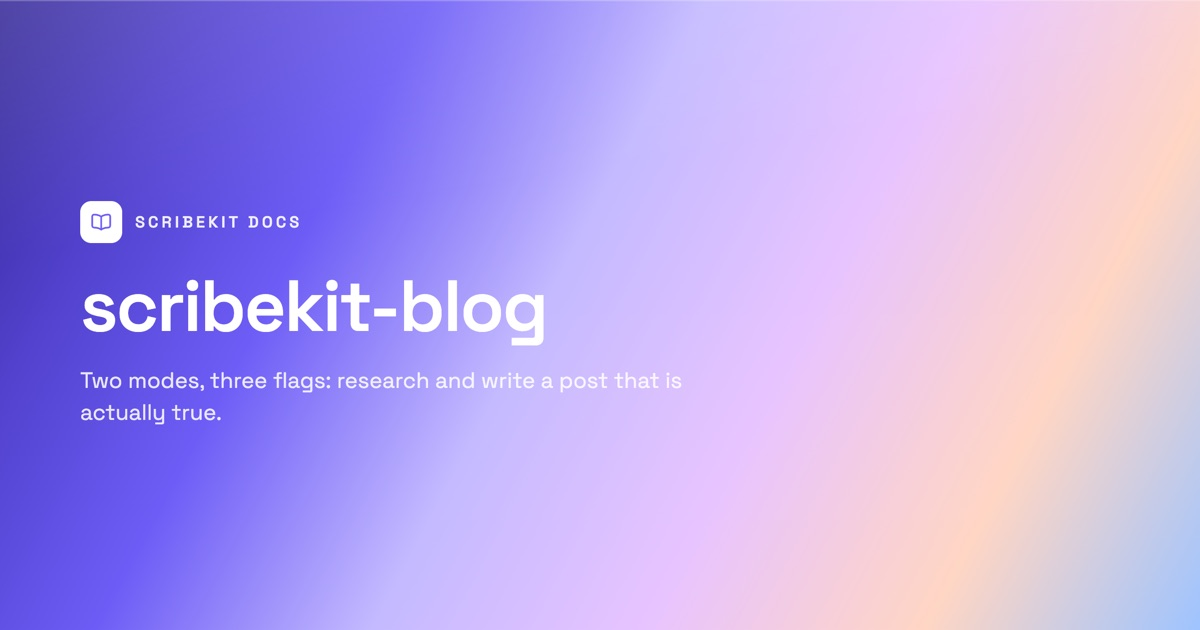
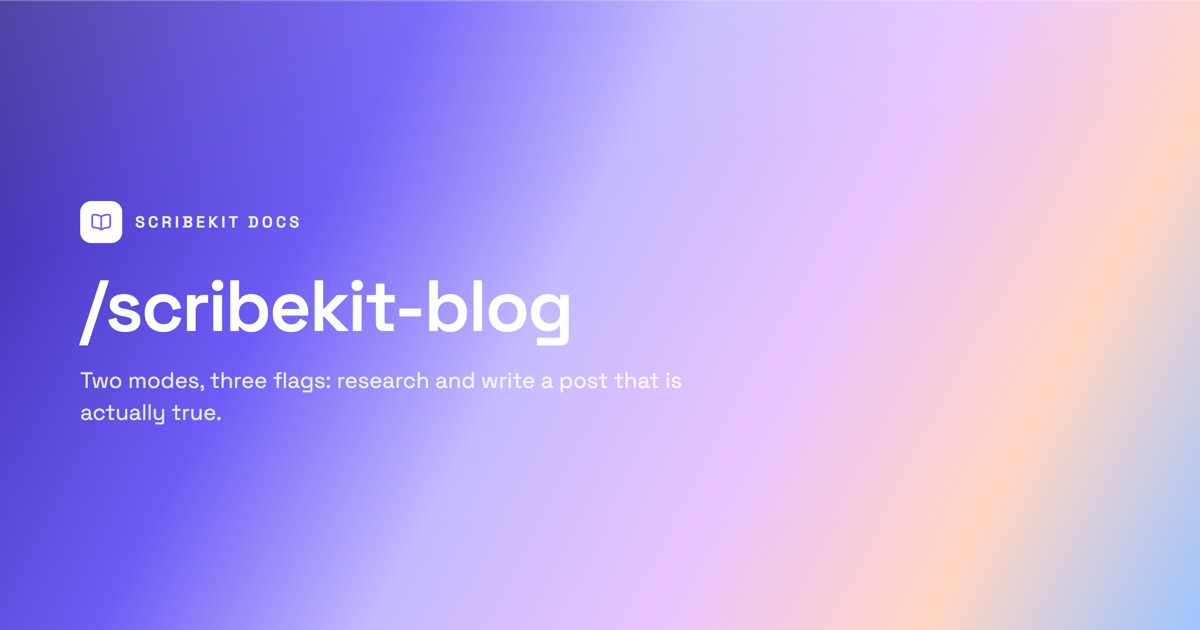
docs: prefix skill page names with /
Skill reference pages are now titled /scribekit-blog, /scribekit-docs,
/scribekit-docs-github-pages and /scribekit-hero, matching how the skills
are invoked. Heroes re-rendered from the updated params.

Changed region(s): [[0.0617, 0.4222, 0.4933, 0.573]]

diff --git a/docs/content/scribekit-docs-github-pages/hero.js b/docs/content/scribekit-docs-github-pages/hero.js
@@ -2,6 +2,6 @@
 // `regenerate-docs-heroes`. Single-language docs, so a plain params object (no locale function).
 export default {
     gradient: "horizon-glow",
-    title: "scribekit-docs-github-pages",
+    title: "/scribekit-docs-github-pages",
     subtitle: "Eight steps from a docs site to a static export live on GitHub Pages.",
 };

diff --git a/docs/content/scribekit-blog/hero.js b/docs/content/scribekit-blog/hero.js
@@ -2,6 +2,6 @@
 // `regenerate-docs-heroes`. Single-language docs, so a plain params object (no locale function).
 export default {
     gradient: "diagonal-ribbon",
-    title: "scribekit-blog",
+    title: "/scribekit-blog",
     subtitle: "Two modes, three flags: research and write a post that is actually true.",
 };

diff --git a/docs/content/scribekit-hero/hero.js b/docs/content/scribekit-hero/hero.js
@@ -2,6 +2,6 @@
 // `regenerate-docs-heroes`. Single-language docs, so a plain params object (no locale function).
 export default {
     gradient: "soft-sweep",
-    title: "scribekit-hero",
+    title: "/scribekit-hero",
     subtitle: "Six modes, three files, six gradients. Rendered from HTML, never generated.",
 };

diff --git a/docs/content/scribekit-docs/hero.js b/docs/content/scribekit-docs/hero.js
@@ -2,6 +2,6 @@
 // `regenerate-docs-heroes`. Single-language docs, so a plain params object (no locale function).
 export default {
     gradient: "aurora-glow",
-    title: "scribekit-docs",
+    title: "/scribekit-docs",
     subtitle: "Four modes that source every documented fact from your own code.",
 };
